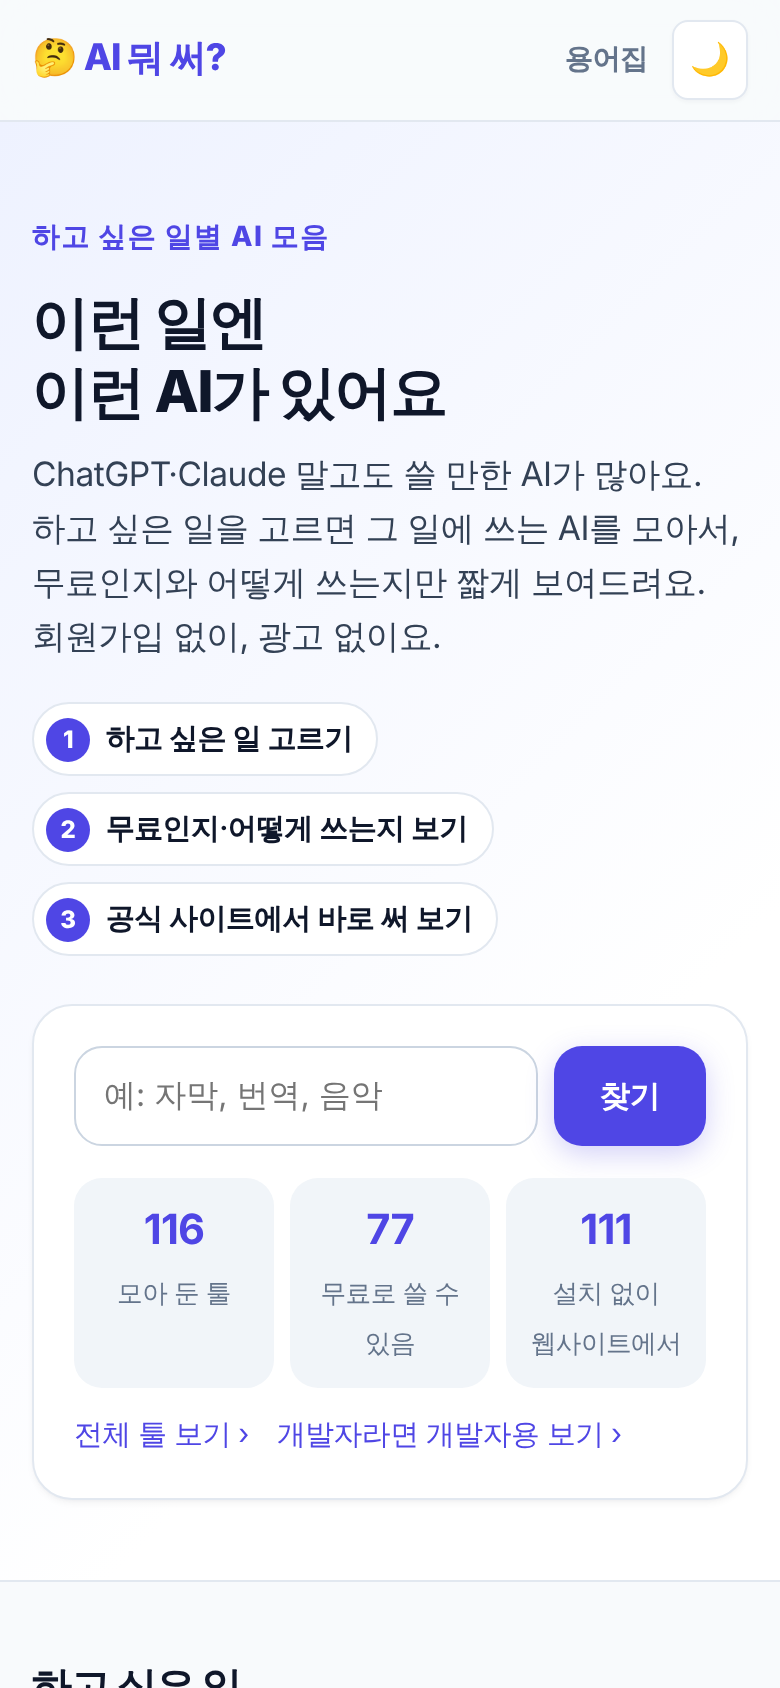
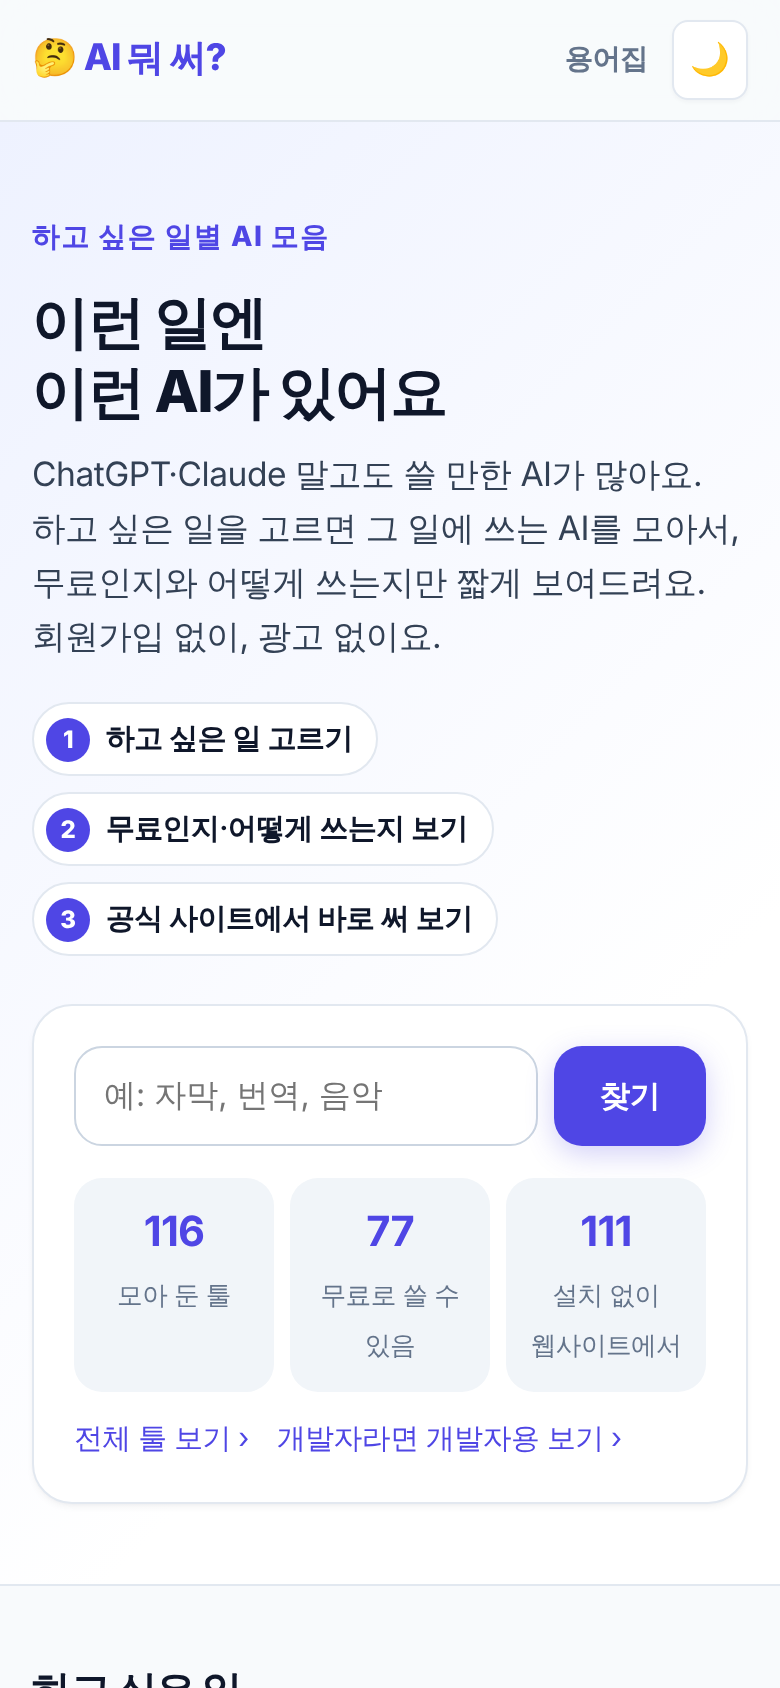
목록 보완: 분야 탭, 정렬, 글자 아이콘, 더 보기, 홈 숫자 링크
- 목록 위 분야 탭 (켠 조건·정렬 유지)
- 정렬: 이름순 / 무료 먼저, 가격 모르는 툴은 맨 뒤
- 카드에 툴 이름 첫 글자 아이콘
- 휴대폰에서 한 줄 설명 두 줄까지
- 홈 숫자 3개를 누르면 해당 목록으로
- 개발자용 묶음은 처음 12개 + 더 보기
- CLAUDE.md: 커밋·PR에 작성 도구 표시를 넣지 않음

diff --git a/js/app.js b/js/app.js
@@ -7,7 +7,7 @@
 //   #/changes                변경 이력
 // 2026-11-06 개편: 점수 추천과 "자세히 보기"를 없애고, 용도별 카드 목록으로 최대한 많은 AI를 짧게 보여준다.
 // 목록·조건 계산은 recommend.js(순수 함수)에만 맡긴다.
-import { FILTERS, groupByKind, isStale, listTools } from './recommend.js';
+import { FILTERS, SORTS, groupByKind, initialLetter, isStale, listTools, splitPreview } from './recommend.js';
 import { formatDate, localToday, priceBadge, useText } from './format.js';
 import { FEEDBACK_FORM, REASON_MAX, cleanReason, feedbackBody, githubIssueUrl, isFeedbackReady } from './feedback.js';
 import { PAGE_KEYS, pageSections } from './pages.js';
@@ -68,6 +68,7 @@ function cardHtml(t, currentPurpose = null) {
   return `
     <article class="tool-card" id="tool-${esc(t.id)}">
       <div class="tool-head">
+        <span class="tool-avatar" aria-hidden="true">${esc(initialLetter(t.name))}</span>
         <h2 class="tool-name"><a href="${esc(t.url)}" target="_blank" rel="noopener">${esc(t.name)} <span class="ext" aria-hidden="true">↗</span></a></h2>
         ${stale ? '<span class="tag tag-warn">다시 확인 필요</span>' : ''}
         ${t.ai_native === 'no' ? '<span class="tag tag-plain">AI와 같이 쓰는 도구</span>' : ''}
@@ -94,11 +95,15 @@ function groupedHtml(tools, currentPurpose) {
   if (!mode.kinds) return cardsHtml(tools, currentPurpose);
   return groupByKind(tools, mode.kinds).map(({ kind, tools: list }) => {
     const info = mode.kindInfo[kind];
+    const { shown, hidden } = splitPreview(list);
     return `
       <section class="result-section" aria-labelledby="kind-${kind}">
         <h2 class="result-section-title" id="kind-${kind}"><span aria-hidden="true">${info.icon}</span> ${esc(info.title)} <span class="count">${list.length}</span></h2>
         <p class="result-section-desc">${esc(info.desc)}</p>
-        ${cardsHtml(list, currentPurpose)}
+        ${cardsHtml(shown, currentPurpose)}
+        ${hidden.length ? `
+          <div class="more-cards" hidden>${cardsHtml(hidden, currentPurpose)}</div>
+          <button type="button" class="btn btn-outline more-btn" data-more aria-expanded="false">${esc(info.title)} ${hidden.length}개 더 보기</button>` : ''}
       </section>`;
   }).join('');
 }
@@ -131,9 +136,9 @@ function renderHome() {
         <div class="hero-side">
           ${searchForm()}
           <div class="hero-facts">
-            <div class="hero-fact"><strong>${data.tools.length}</strong><span>모아 둔 ${W}</span></div>
-            <div class="hero-fact"><strong>${free}</strong><span>무료로 쓸 수 있음</span></div>
-            <div class="hero-fact"><strong>${web}</strong><span>${esc(mode.webFact)}</span></div>
+            <a class="hero-fact" href="#/all"><strong>${data.tools.length}</strong><span>모아 둔 ${W}</span></a>
+            <a class="hero-fact" href="#/all?free=1"><strong>${free}</strong><span>무료로 쓸 수 있음</span></a>
+            <a class="hero-fact" href="#/all?web=1"><strong>${web}</strong><span>${esc(mode.webFact)}</span></a>
           </div>
           <p class="hero-links"><a href="#/all">전체 ${W} 보기 ›</a> <a href="${mode.otherSite.href}">${esc(mode.otherSite.label)} ›</a></p>
         </div>
@@ -173,23 +178,52 @@ function filterChips(base, active, extra = '') {
     </div>`;
 }
 
+/** 목록 위 분야 탭: 처음 화면으로 돌아가지 않고 옆 분야로 넘어간다 (켠 조건·정렬은 그대로) */
+function purposeTabs(current, keep) {
+  return `
+    <nav class="purpose-tabs" aria-label="하고 싶은 일">
+      <a class="purpose-tab" href="#/all${keep}"${current ? '' : ' aria-current="page"'}>전체</a>
+      ${data.purposes.map((p) => `<a class="purpose-tab" href="#/p/${p.id}${keep}"${current === p.id ? ' aria-current="page"' : ''}><span aria-hidden="true">${esc(p.icon)}</span> ${esc(p.label)}</a>`).join('')}
+    </nav>`;
+}
+
+const SORT_LABELS = { name: '이름순', free: '무료 먼저' };
+function sortChips(base, params) {
+  const current = SORTS[params.get('sort')] ? params.get('sort') : 'name';
+  return `
+    <div class="sort" role="group" aria-label="정렬">
+      <span class="sort-label">정렬</span>
+      ${Object.keys(SORTS).map((k) => {
+        const next = new URLSearchParams(params);
+        if (k === 'name') next.delete('sort'); else next.set('sort', k);
+        const q = next.toString();
+        return `<a class="sort-chip" href="${base}${q ? `?${q}` : ''}" aria-pressed="${current === k}">${SORT_LABELS[k]}</a>`;
+      }).join('')}
+    </div>`;
+}
+
 function renderList({ purpose = null, params }) {
   const active = mode.filters.map((f) => f.key).filter((k) => params.get(k) === '1' && FILTERS[k]);
   const query = purpose ? '' : (params.get('q') ?? '');
-  const tools = listTools({ tools: data.tools, purposeId: purpose?.id ?? null, filters: active, query });
+  const sort = SORTS[params.get('sort')] ? params.get('sort') : 'name';
+  const tools = listTools({ tools: data.tools, purposeId: purpose?.id ?? null, filters: active, query, sort });
+  const keepParams = new URLSearchParams();
+  for (const k of active) keepParams.set(k, '1');
+  if (sort !== 'name') keepParams.set('sort', sort);
+  const keep = keepParams.toString() ? `?${keepParams}` : '';
   const title = purpose ? `${purpose.icon} ${purpose.label}` : query ? `"${query}" 찾기` : `전체 ${W}`;
   document.title = `${purpose ? purpose.label : `전체 ${W}`} · ${mode.siteName}`;
   const base = purpose ? `#/p/${purpose.id}` : '#/all';
   app.innerHTML = `
+    ${purposeTabs(purpose?.id ?? null, keep)}
     <div class="page-head">
-      ${backLink('#/', '처음으로')}
       <h1 class="page-title">${esc(title)} <span class="count">${tools.length}개</span></h1>
       ${purpose ? `<p class="page-sub">${esc(purpose.examples)}</p>` : searchForm(query)}
     </div>
-    ${data.tools.length ? filterChips(base, active, query ? `q=${encodeURIComponent(query)}` : '') : ''}
+    ${data.tools.length ? `<div class="list-controls">${filterChips(base, active, [query ? `q=${encodeURIComponent(query)}` : '', sort !== 'name' ? `sort=${sort}` : ''].filter(Boolean).join('&'))}${sortChips(base, params)}</div>` : ''}
     ${tools.length ? groupedHtml(tools, purpose?.id ?? null)
       : emptyNotice(active.length || query ? '조건을 바꿔서 다시 찾아보세요.' : mode.emptyText)}
-    <p class="order-note">순서는 이름순이에요. 가격·쓰는 방법은 확인 날짜 기준이니, 쓰기 전에 공식 사이트에서 한 번 더 확인하세요.</p>`;
+    <p class="order-note">순서는 이름순(또는 무료 먼저)이고, 가격을 확인하지 못한 툴은 맨 뒤에 있어요. 좋고 나쁨의 순위가 아니에요. 가격·쓰는 방법은 확인 날짜 기준이니, 쓰기 전에 공식 사이트에서 한 번 더 확인하세요.</p>`;
 }
 
 function renderTool(t) {
@@ -468,6 +502,10 @@ function route() {
   app.querySelectorAll('[data-scroll]').forEach((b) => b.addEventListener('click', () => {
     const reduce = matchMedia('(prefers-reduced-motion: reduce)').matches;
     document.getElementById(b.dataset.scroll)?.scrollIntoView({ behavior: reduce ? 'auto' : 'smooth', block: 'start' });
+  }));
+  app.querySelectorAll('[data-more]').forEach((btn) => btn.addEventListener('click', () => {
+    btn.previousElementSibling.hidden = false; // 남은 카드 펼치기
+    btn.remove();
   }));
   app.querySelectorAll('[data-search]').forEach((form) => form.addEventListener('submit', (ev) => {
     ev.preventDefault();

diff --git a/js/recommend.js b/js/recommend.js
@@ -1,6 +1,6 @@
 // 목록 로직 (2026-11-06 개편: 점수 추천 대신 용도별 카드 목록).
 // DOM·시계·네트워크에 접근하지 않는 순수 함수만 둔다. 브라우저와 Node 양쪽에서 import 한다.
-// 순서는 이름순이에요. 좋고 나쁨의 순위를 매기지 않는다.
+// 순서는 이름순(또는 무료 먼저)이에요. 좋고 나쁨의 순위를 매기지 않는다. 가격을 모르는 툴은 맨 뒤.
 
 export const STALE_DAYS = 90;
 const DAY_MS = 24 * 60 * 60 * 1000;
@@ -33,6 +33,14 @@ export const FILTERS = {
 };
 
 const byName = (a, b) => a.name.localeCompare(b.name, 'ko') || (a.id < b.id ? -1 : a.id > b.id ? 1 : 0);
+const priceKnown = (t) => t.price.free !== null || t.price.paid !== null;
+
+/** 정렬 방법. 가격을 모르는 툴("가격 확인 필요")은 어느 정렬이든 맨 뒤로 */
+export const SORTS = {
+  name: (a, b) => byName(a, b), // 이름순
+  free: (a, b) => (b.price.free === true) - (a.price.free === true) || byName(a, b), // 무료로 쓸 수 있는 것 먼저
+};
+const withUnknownLast = (cmp) => (a, b) => priceKnown(b) - priceKnown(a) || cmp(a, b);
 
 /**
  * @param {object} input
@@ -40,9 +48,11 @@ const byName = (a, b) => a.name.localeCompare(b.name, 'ko') || (a.id < b.id ? -1
  * @param {string|null} [input.purposeId]  없으면 전체
  * @param {string[]} [input.filters]       FILTERS의 키
  * @param {string} [input.query]           이름·한 줄 설명에서 찾을 말
- * @returns {object[]} 이름순
+ * @param {string} [input.sort]            SORTS의 키 (기본 name). 가격을 모르는 툴은 맨 뒤
+ * @returns {object[]}
  */
-export function listTools({ tools, purposeId = null, filters = [], query = '' }) {
+export function listTools({ tools, purposeId = null, filters = [], query = '', sort = 'name' }) {
+  if (!SORTS[sort]) throw new TypeError(`알 수 없는 정렬: ${sort}`);
   if (!Array.isArray(tools)) throw new TypeError('tools는 배열이어야 합니다');
   for (const f of filters) if (!FILTERS[f]) throw new TypeError(`알 수 없는 조건: ${f}`);
   const q = query.trim().toLowerCase();
@@ -50,7 +60,7 @@ export function listTools({ tools, purposeId = null, filters = [], query = '' })
     .filter((t) => !purposeId || t.purposes.includes(purposeId))
     .filter((t) => filters.every((f) => FILTERS[f](t)))
     .filter((t) => !q || `${t.name} ${t.one_liner}`.toLowerCase().includes(q))
-    .sort(byName);
+    .sort(withUnknownLast(SORTS[sort]));
 }
 
 /** 용도마다 몇 개 있는지 { P01: 3, ... } */
@@ -66,4 +76,16 @@ export function groupByKind(tools, kinds) {
   return kinds
     .map((kind) => ({ kind, tools: tools.filter((t) => t.kind === kind) }))
     .filter((g) => g.tools.length > 0);
+}
+
+/** 묶음마다 처음 몇 개만 보여주고 나머지는 "더 보기"로 (개발자용 긴 목록) */
+export const PREVIEW_COUNT = 12;
+export function splitPreview(tools, count = PREVIEW_COUNT) {
+  return { shown: tools.slice(0, count), hidden: tools.slice(count) };
+}
+
+/** 툴 이름 첫 글자 (카드의 글자 아이콘) */
+export function initialLetter(name) {
+  const c = [...name.trim()][0] ?? '?';
+  return /[a-z]/i.test(c) ? c.toUpperCase() : c;
 }

diff --git a/css/styles.css b/css/styles.css
@@ -1482,3 +1482,45 @@ body.has-sticky-cta { padding-bottom: 84px; }
 .hero-inner { grid-template-columns: minmax(0, 1fr); }
 .hero-inner > * { min-width: 0; }
 @media (min-width: 900px) { .hero-inner { grid-template-columns: minmax(0, 1.4fr) minmax(0, 1fr); } }
+
+/* ---- 목록 보완 (2026-11-06): 분야 탭, 정렬, 글자 아이콘, 더 보기 ---- */
+.purpose-tabs {
+  display: flex; gap: 6px; overflow-x: auto; scrollbar-width: thin;
+  margin: 20px 0 4px; padding: 2px 0 8px;
+  -webkit-overflow-scrolling: touch;
+}
+.purpose-tab {
+  flex: none; white-space: nowrap;
+  padding: 8px 14px; border-radius: var(--radius-full);
+  border: 1px solid var(--line); background: var(--surface);
+  color: var(--sub); font-size: 0.9rem; font-weight: 600;
+}
+.purpose-tab:hover { border-color: var(--accent); color: var(--accent); }
+.purpose-tab[aria-current="page"] { background: var(--accent); border-color: var(--accent); color: var(--on-accent); }
+.list-controls { display: flex; flex-wrap: wrap; align-items: center; justify-content: space-between; gap: 8px 16px; margin: 0 0 12px; }
+.list-controls .chips { margin: 0; }
+.sort { display: flex; align-items: center; gap: 6px; font-size: 0.875rem; }
+.sort-label { color: var(--muted); }
+.sort-chip {
+  padding: 5px 10px; border-radius: var(--radius-sm);
+  border: 1px solid var(--line); color: var(--sub); background: var(--surface);
+}
+.sort-chip[aria-pressed="true"] { border-color: var(--accent); color: var(--accent); font-weight: 700; background: var(--accent-bg); }
+.tool-avatar {
+  flex: none; display: grid; place-items: center;
+  width: 32px; height: 32px; border-radius: 9px;
+  background: var(--accent-bg); color: var(--accent);
+  font-weight: 800; font-size: 0.95rem;
+  border: 1px solid color-mix(in srgb, var(--accent) 25%, transparent);
+}
+.more-btn { display: block; margin: 14px auto 0; }
+.more-cards:not([hidden]) { margin-top: 16px; }
+a.hero-fact { color: inherit; border: 1px solid transparent; transition: border-color var(--duration) var(--ease); }
+a.hero-fact:hover { border-color: var(--accent); }
+/* 휴대폰: 한 줄 설명은 두 줄까지만 보여서 한 화면에 카드가 더 들어가게 */
+@media (max-width: 639px) {
+  .tool-card .tool-one-liner {
+    display: -webkit-box; -webkit-line-clamp: 2; -webkit-box-orient: vertical; overflow: hidden;
+  }
+  .tool-card { padding: 14px 14px 10px; }
+}

diff --git a/tests/recommend.test.js b/tests/recommend.test.js
@@ -9,12 +9,30 @@ const demo = read('data/demo-tools.json');
 const devDemo = read('data/dev/demo-tools.json');
 const purposes = read('data/purposes.json');
 
-test('용도로 거르고 이름순', () => {
+test('용도로 거르고 이름순 (가격을 모르는 툴은 맨 뒤)', () => {
   const list = listTools({ tools: demo, purposeId: 'P01' });
   assert.ok(list.length > 0);
   assert.ok(list.every((t) => t.purposes.includes('P01')));
-  const names = list.map((t) => t.name);
-  assert.deepEqual(names, [...names].sort((a, b) => a.localeCompare(b, 'ko')));
+  const known = list.filter((t) => t.price.free !== null || t.price.paid !== null).map((t) => t.name);
+  assert.deepEqual(known, [...known].sort((a, b) => a.localeCompare(b, 'ko')));
+});
+
+test('정렬: 무료 먼저, 가격 모름은 항상 맨 뒤', async () => {
+  const { SORTS } = await import('../js/recommend.js');
+  const mk = (id, free, paid) => ({ id, name: id, one_liner: '', purposes: ['P01'], use: ['web'], price: { free, paid } });
+  const tools = [mk('a-paid', false, true), mk('b-unknown', null, null), mk('c-free', true, true), mk('d-free', true, null)];
+  assert.deepEqual(listTools({ tools }).map((t) => t.id), ['a-paid', 'c-free', 'd-free', 'b-unknown']);
+  assert.deepEqual(listTools({ tools, sort: 'free' }).map((t) => t.id), ['c-free', 'd-free', 'a-paid', 'b-unknown']);
+  assert.throws(() => listTools({ tools, sort: 'score' }), TypeError);
+  assert.deepEqual(Object.keys(SORTS), ['name', 'free']);
+});
+
+test('묶음 미리보기와 글자 아이콘', async () => {
+  const { splitPreview, initialLetter } = await import('../js/recommend.js');
+  const { shown, hidden } = splitPreview([1, 2, 3, 4, 5], 3);
+  assert.deepEqual([shown, hidden], [[1, 2, 3], [4, 5]]);
+  assert.equal(initialLetter('ollama'), 'O');
+  assert.equal(initialLetter('뤼튼'), '뤼');
 });
 
 test('용도가 없으면 전체', () => {

diff --git a/docs/decisions.md b/docs/decisions.md
@@ -71,3 +71,5 @@
 | 2026-11-06 | 용도 5개 | 하고 싶은 일이 많고 용도마다 툴이 0~2개라 사이트마다 5개로 합친다 (J). 비개발자용: 글쓰기·질문·자료 조사(예전 P01·P03·P08·P09) / 회의 녹음·번역(P02·P07) / 이미지·발표자료(P04·P05) / 영상·목소리·음악(P06·P10·P11) / AI 비서·웹사이트 만들기(P12·P13). 개발자용: 코드 짜기·리뷰(coding_agents·code_review) / 앱 만들기·디자인(app_builders·design_ui·planning) / 모델·데이터·RAG(data_ml) / 에이전트·자동화(automation) / 백엔드·배포(backend_database·devops). 툴은 사이트마다 최소 100개. |
 | 2026-11-06 | 가격 못 찾은 툴 | 공식 사이트가 열리는데 가격 문장을 못 찾은 툴(Jasper, Fotor, Hailuo 등)은 가격을 null("가격 확인 필요")로 두고 올린다 (J 결정 "모르면 확인 필요로 두고 그래도 올림"). 봇 차단 화면만 나와 공식 페이지를 하나도 못 읽은 툴(Perplexity, Poe, QuillBot, Leonardo, Tensor.Art, Craiyon, TurboScribe 등)은 넣지 않는다. |
 | 2026-11-06 | 홈·색·용어집 정리 | 홈 소개는 카드 대신 화면 너비 전체를 쓰는 가로 띠(소개 + 찾기 + 숫자 3개), 그 아래 하고 싶은 일 5개. 하고 싶은 일 타일의 개수 표시는 없앤다. 상단 메뉴의 변경 이력은 없애고 하단·홈 "더 알아보기"에만 둔다. 대표 색은 지금 색과 반대편 색으로: 비개발자용 주황 → 남보라(#4f46e5), 개발자용 파랑 → 호박색(#b45309). 로고 글자도 대표 색. 용어집은 찾기 칸 + 가나다순 카드(휴대폰 1칸·640px 2칸·1000px 3칸). 변경 이력은 같은 날짜를 한 번만 보여준다. 쓰지 않는 용어(학습 정책, 유료 가격)는 빼고 무료로 시작·직접 설치·AI 비서·오픈소스를 넣었다. |
+| 2026-11-06 | 목록 보완 | 목록 위에 분야 탭(전체 + 5개, 켠 조건·정렬 유지). 정렬은 이름순 / 무료 먼저 두 가지, 가격을 모르는 툴은 어느 정렬이든 맨 뒤. 카드에 툴 이름 첫 글자 아이콘: 공식 로고는 방문할 때마다 각 회사 서버에서 불러오면 방문 기록이 그 회사들로 가고(개인정보 처리방침 약속과 어긋남), 로고 파일을 내려받아 넣는 건 "파일을 내려받지 않는다" 규칙과 어긋나서 글자 아이콘으로 했다. 휴대폰에서는 한 줄 설명을 두 줄까지만. 홈 숫자 3개는 누르면 그 목록으로. 개발자용 묶음은 처음 12개만 보이고 "더 보기". |
+| 2026-11-06 | 커밋 표시 | 커밋 메시지와 PR 본문에 작성 도구 표시(Generated by, Co-Authored-By 등)를 넣지 않는다 (J). |

diff --git a/CLAUDE.md b/CLAUDE.md
@@ -10,3 +10,4 @@
 - 화면 문구는 비개발자 기준 쉬운 한국어로 쓴다. 영어 약어 금지.
 - 개발자용(docs/개발자용_기획서.md)은 data/dev/에 따로 둔다. 비개발자 화면에 개발 도구를 섞지 않는다. AI 툴이 아닌 도구는 ai_native: "no"로 표시하고 AI 툴이라고 소개하지 않는다. 공식 주소·출처 링크는 그 도구의 official_domains만 쓴다 (저장소·모델 주소만 github.com/gitlab.com/huggingface.co 허용). 개발자용은 오픈소스 위주로 최대한 많이 넣는다.
 - 수정 후 `node --test`를 실행하고 결과를 보고한다. 데이터를 고쳤으면 `node scripts/validate-data.js`, `node scripts/validate-dev-data.js`도 실행한다.
+- 커밋 메시지와 PR 본문에 "Generated by/with", "Co-Authored-By", 세션 링크 같은 작성 도구 표시를 넣지 않는다 (2026-11-06 J 결정).
